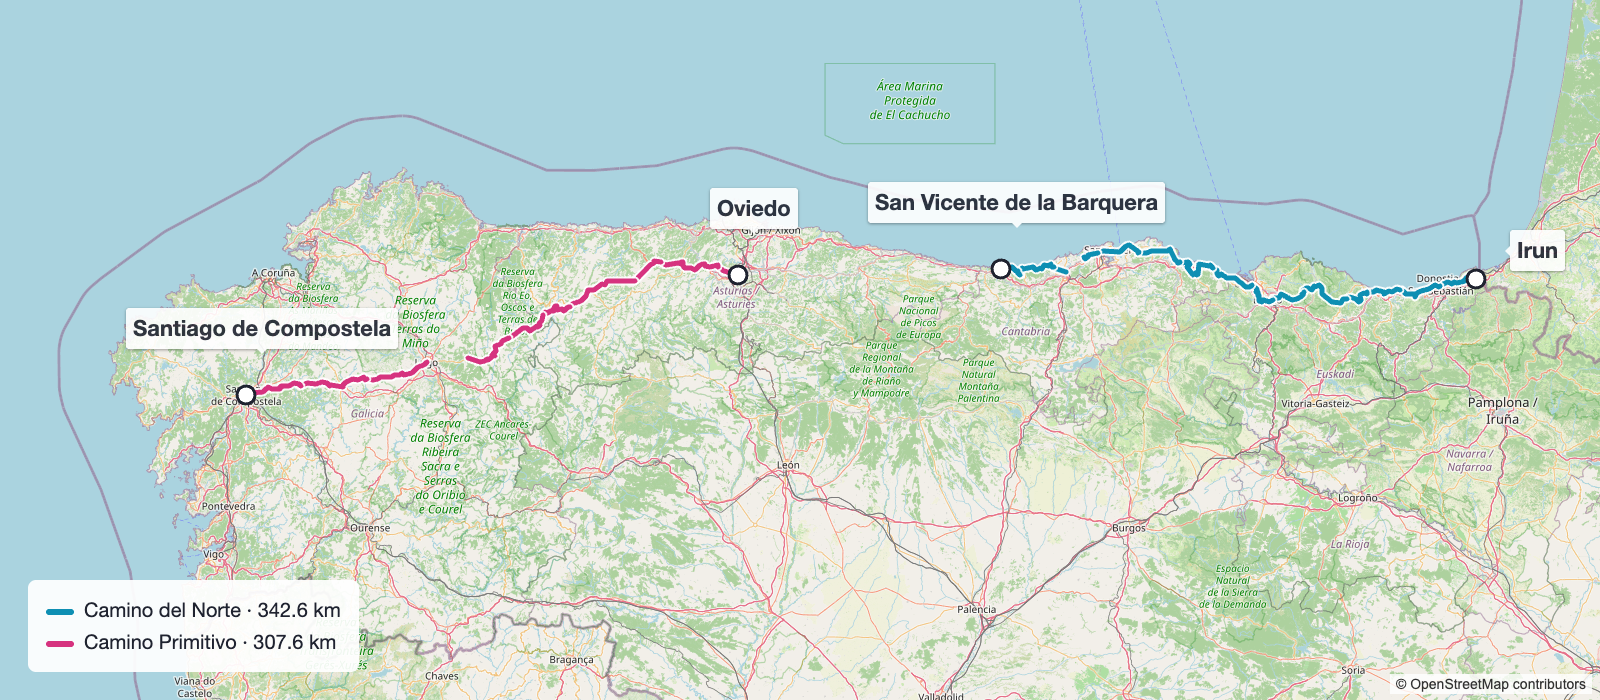
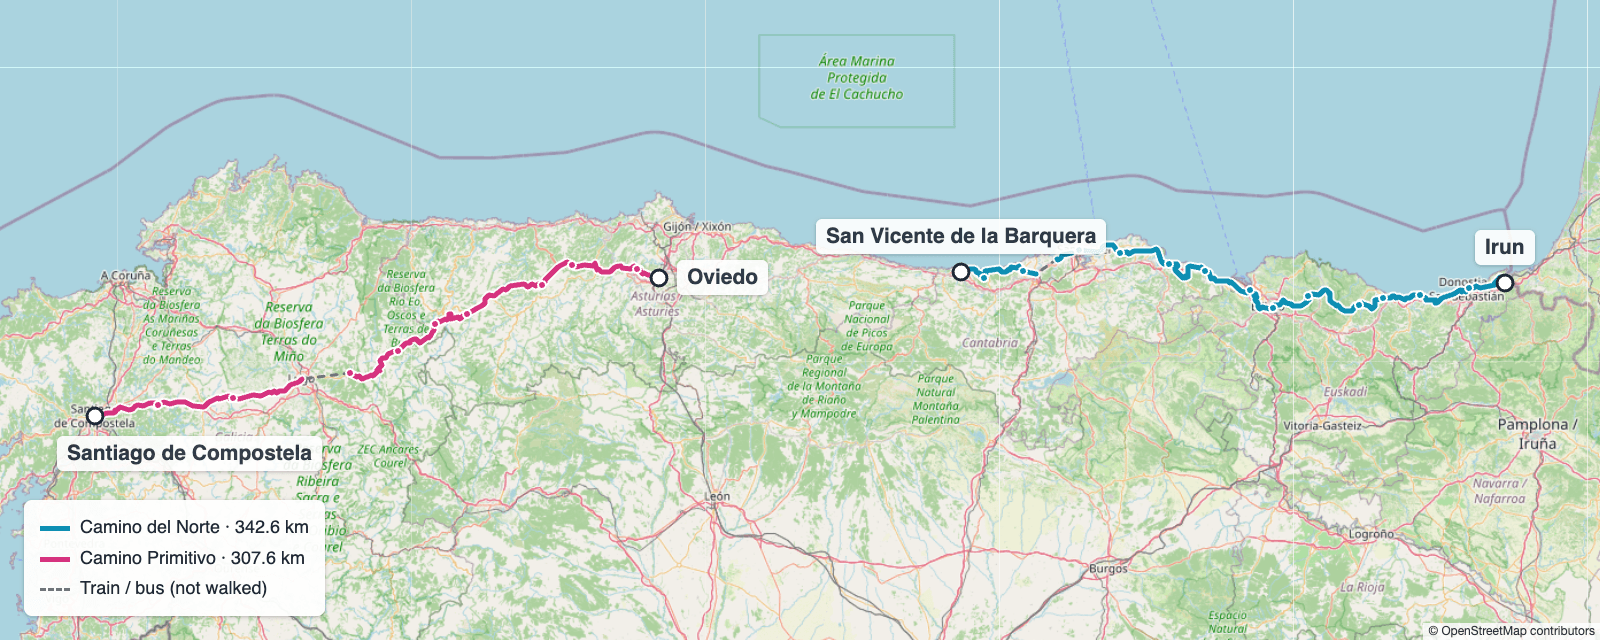
feat(blog): Camino post review — LinkedIn text, steps, new map
- Opening text and custom LinkedIn commentary (new optional `linkedin`
  frontmatter field); the LinkedIn script now also reads single-quoted
  tag arrays, so hashtags are posted.
- Title with 918,000 steps, split over three lines via optional
  `titleLines`; estimated steps added to the numbers table.
- Route map redrawn: tighter frame, stage-end dots, dashed train/bus
  stretches in the legend.
- Ernesto Bustio named in the Güemes section; stage 0 gallery reordered;
  unused credential photo removed (it is now the cover).
- .prettierignore: keep Prettier off content Markdown, which breaks MDC blocks.

diff --git a/content.config.ts b/content.config.ts
@@ -18,10 +18,14 @@ export default defineContentConfig({
       source: 'blog/**/*.md',
       schema: z.object({
         title: z.string(),
+        // Optional manual line breaks for the page heading; defaults to splitting at ": ".
+        titleLines: z.array(z.string()).optional(),
         description: z.string(),
         date: z.string(),
         image: z.string().optional(),
         tags: z.array(z.string()).optional(),
+        // Text for the LinkedIn auto-post (scripts/post-to-linkedin.mjs); not rendered on the site.
+        linkedin: z.string().optional(),
         draft: z.boolean().optional()
       })
     }),

diff --git a/app/pages/blog/[slug].vue b/app/pages/blog/[slug].vue
@@ -37,8 +37,12 @@ useHead({
 
 const { formatDate } = useDateFormatting();
 
-// "Title: Subtitle" renders on two lines, keeping the colon on the first.
+// "Title: Subtitle" renders on two lines, keeping the colon on the first,
+// unless the post sets its own titleLines.
 const titleLines = computed(() => {
+  if (post.value?.titleLines?.length) {
+    return post.value.titleLines;
+  }
   const title = post.value?.title ?? '';
   const i = title.indexOf(': ');
   return i === -1 ? [title] : [title.slice(0, i + 1), title.slice(i + 2)];

diff --git a/content/blog/camino-irun-to-santiago.md b/content/blog/camino-irun-to-santiago.md
@@ -1,11 +1,22 @@
 ---
-title: 'To Santiago on foot: 677 km on the Camino del Norte and Primitivo'
+title: 'To Santiago on foot: 677 km and 918,000 steps on the Camino del Norte and Primitivo'
+titleLines: ['To Santiago on foot:', '677 km and 918,000 steps', 'on the Camino del Norte and Primitivo']
 description: 'Twenty-five stages, from a prologue in Switzerland on St James’ Day to the cathedral in Santiago de Compostela and on to Fátima — the coast on the Camino del Norte, the mountains on the Camino Primitivo, then Portugal. Every stage, start to finish.'
 date: '2026-10-27'
 image: '/images/blog/camino-irun-to-santiago-cover.jpg'
 tags: ['camino', 'walking', 'travel', 'strava']
+linkedin: |
+  677 km. 918,000 steps. 16,822 m of climbing. 25 stages.
+
+  But the numbers are the least important part. "Nel mezzo del cammin di nostra vita" — at the close of a long chapter in my career, the Camino to Santiago became a time of introspection, meditation and rediscovered faith, and a clear mind for what comes next.
+
+  Every stage, with heart-rate data, maps and photos:
 draft: false
 ---
+
+677 km. 918,000 steps. 16,822 m of climbing. 25 stages.
+
+But the numbers are the least important part. *Nel mezzo del cammin di nostra vita* — at the close of a long chapter in my career, the Camino to Santiago became a time of introspection, meditation and rediscovered faith, and a clear mind for what comes next.
 
 This summer I walked to Santiago de Compostela. I started at home in Switzerland on St James’ Day, then took the Camino del Norte from Irun along the coast, and halfway through switched to the Camino Primitivo, the oldest of the routes, which crosses the mountains of Asturias and Galicia. From Santiago the journey continued through Portugal to Fátima.
 
@@ -30,6 +41,7 @@ Every stage was recorded on a Garmin Forerunner 965 and synced to Strava. These 
 | Average per day    | 26.5 km         | 24.5 km                           | 30.8 km           | **27.1 km**      |
 | Average heart rate | 115 bpm         | 108 bpm                           | 109 bpm           | **109 bpm**      |
 | Energy (estimated) | 2,044 kcal      | 30,376 kcal                       | 27,010 kcal       | **59,430 kcal**  |
+| Steps (estimated)  |                 |                                   |                   | **~918,000**     |
 
 The Primitivo was shorter on paper and harder in practice: more climbing in 35 fewer kilometres, and a high point more than twice as high.
 
@@ -58,15 +70,6 @@ The next morning, at St. Marien in Oberwinterthur, I had my shoes, my feet and m
 ::blog-gallery
 ---
 images:
-  - src: /images/blog/camino/shell-and-credential.jpg
-    alt: The pilgrim credential of the Cathedral of Santiago next to a scallop shell with the red cross of St James
-    caption: The credential and the shell
-  - src: /images/blog/camino/packing.jpg
-    alt: Hiking gear laid out on a table, with a scallop shell and the pilgrim credential
-    caption: Everything that went into the backpack
-  - src: /images/blog/camino/la-sportiva-ultra-raptor.jpg
-    alt: A pair of black La Sportiva Ultra Raptor 3 hiking shoes on their box
-    caption: The shoes — La Sportiva Ultra Raptor 3
   - src: /images/blog/camino/stage-0-st-james-day.jpg
     alt: Fields and a single tree in the countryside between Münchwilen and Winterthur
     caption: 25 July, St James’ Day — stage 0
@@ -76,6 +79,12 @@ images:
   - src: /images/blog/camino/oberwinterthur-church.jpg
     alt: The church of St. Marien in Oberwinterthur
     caption: St. Marien, Oberwinterthur — where the shell, my shoes and my feet were blessed
+  - src: /images/blog/camino/packing.jpg
+    alt: Hiking gear laid out on a table, with a scallop shell and the pilgrim credential
+    caption: Everything that went into the backpack
+  - src: /images/blog/camino/la-sportiva-ultra-raptor.jpg
+    alt: A pair of black La Sportiva Ultra Raptor 3 hiking shoes on their box
+    caption: The shoes — La Sportiva Ultra Raptor 3
   - src: /images/blog/camino/winterthur-station.jpg
     alt: Platform at Winterthur station with the departure board
     caption: Winterthur station — on the way to the airport
@@ -186,14 +195,14 @@ landscape: true
 
 ### The evening talk in Güemes
 
-At the albergue in Güemes, after a dinner paid for by the donations of the pilgrims who had stayed the night before, its 89-year-old founder stood up to speak. The room we were eating in, he said, was once his family's cow stable — and it is not a dining room but a museum, built from a journey through Africa and Latin America in the Land Rover parked outside. We arrive tired and hungry, he said, so we see only tables and food: we care a lot for the body and little for the spirit. Then he invited everyone to the small hermitage behind the albergue, where the paintings show the way of life, from manipulation to liberation — for him, the most important place on the whole Camino del Norte.
+At the albergue in Güemes, after a dinner paid for by the donations of the pilgrims who had stayed the night before, its founder, the legendary Ernesto Bustio, 89 years old, stood up to speak. The room we were eating in, he said, was once his family's cow stable — and it is not a dining room but a museum, built from a journey through Africa and Latin America in the Land Rover parked outside. We arrive tired and hungry, he said, so we see only tables and food: we care a lot for the body and little for the spirit. Then he invited everyone to the small hermitage behind the albergue, where the paintings show the way of life, from manipulation to liberation — for him, the most important place on the whole Camino del Norte.
 
 ::blog-video
 ---
 src: /videos/blog/guemes-evening-talk.mp4
 poster: /images/blog/camino/guemes-evening-talk.jpg
-label: The founder of the Güemes albergue speaking to pilgrims after dinner
-caption: Güemes, 6 August — the evening talk, in Spanish with English translation (subtitles available)
+label: Ernesto Bustio, founder of the Güemes albergue, speaking to pilgrims after dinner
+caption: Güemes, 6 August — Ernesto Bustio’s evening talk, in Spanish with English translation (subtitles available)
 captions: /videos/blog/guemes-evening-talk.en.vtt
 ---
 ::
